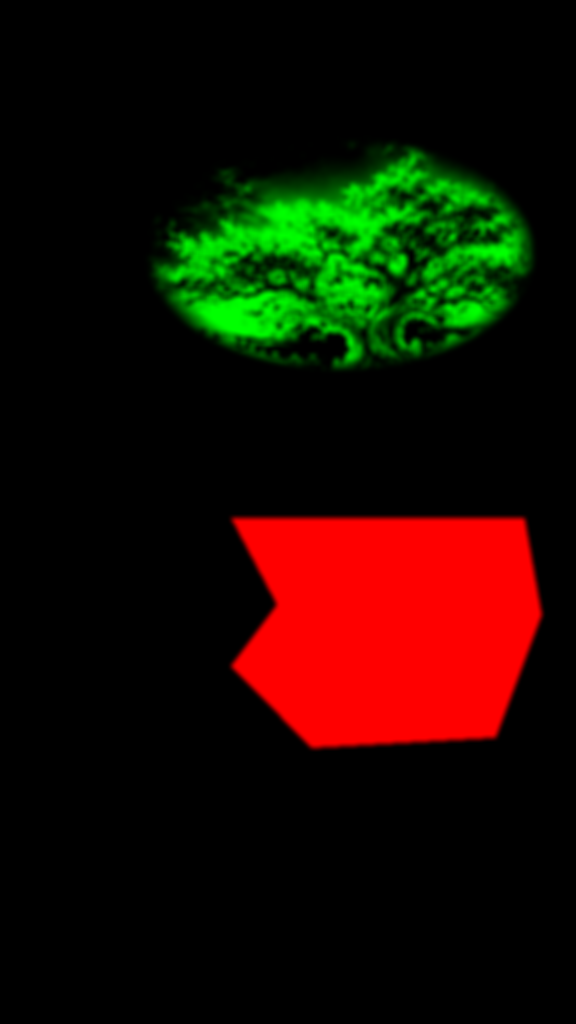
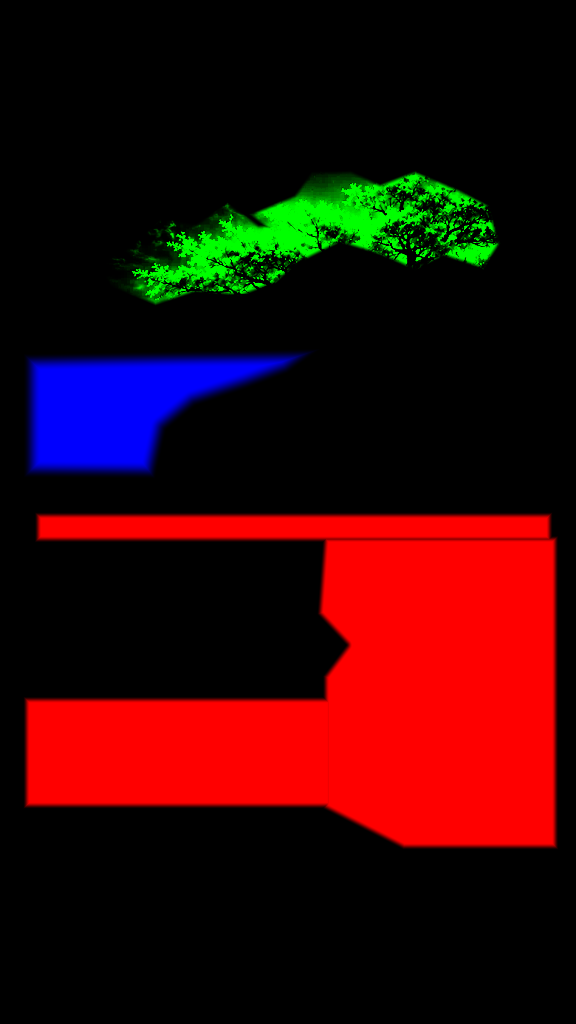
Revise local optical response and capture isolated motion review

Changed region(s): [[0.0312, 0.5, 0.9688, 0.8438], [0.0312, 0.125, 0.9375, 0.4688]]

diff --git a/src/scenes/living-shaders.ts b/src/scenes/living-shaders.ts
@@ -1,50 +1,65 @@
 export const vertex = `attribute vec2 position;varying vec2 uv;void main(){uv=position*.5+.5;gl_Position=vec4(position,0.,1.);}`;
 export const fragment = `precision highp float;
- varying vec2 uv;uniform sampler2D painting;uniform sampler2D regions;uniform sampler2D rayA;uniform sampler2D rayB;
- uniform float time;uniform vec2 size;uniform vec4 bounds;uniform vec3 enabled;uniform vec3 gain;uniform float lightPeriod;uniform float waterPeriod;uniform float textureTopDown;
+ varying vec2 uv;
+ uniform sampler2D painting;uniform sampler2D regions;uniform sampler2D optics;
+ uniform float time;uniform vec2 size;uniform vec2 lightSource;uniform float waterHorizon;
+ uniform vec3 enabled;uniform vec3 gain;uniform float lightPeriod;uniform float waterPeriod;uniform float textureTopDown;
  vec2 sampleCoord(vec2 p){return vec2(p.x,mix(1.-p.y,p.y,textureTopDown));}
- vec4 art(vec2 p){return texture2D(painting,sampleCoord(p));}
+ vec3 art(vec2 p){return texture2D(painting,sampleCoord(p)).rgb;}
+ vec3 field(vec2 p){return texture2D(optics,sampleCoord(fract(p))).rgb;}
+ float transmission(vec2 p,float t){
+   // The same drifting optical-density field shadows foliage and valley air.
+   vec2 q=(p-lightSource)*vec2(size.x/size.y,1.)*3.2;
+   return smoothstep(.18,.78,field(q+vec2(t*.032,-t*.018)).r);
+ }
  void main(){
-  vec2 p=vec2(uv.x,1.-uv.y);vec2 mask=texture2D(regions,sampleCoord(p)).rg;
-  float wind=time*6.283185/lightPeriod;
-  vec2 rayPosition=(p-bounds.xy)/bounds.zw;
-  bool inRay=enabled.x>.5&&rayPosition.x>0.&&rayPosition.x<1.&&rayPosition.y>0.&&rayPosition.y<1.;
-  if(mask.r*enabled.y<.002&&mask.g*enabled.z<.002&&!inRay)discard;
-  vec3 original=art(p).rgb, color=original;float alpha=0.;
-  float water=mask.r*enabled.y;
-  if(water>.002){
-   float phase=time*6.283185/waterPeriod;
-   float depth=smoothstep(.48,.88,p.y);
-   // Two travelling waves have different wavelengths/directions, no moving sheet.
-   vec2 wave=vec2(sin(p.y*245.-phase*2.4+p.x*13.)+.45*sin(p.y*411.+phase*1.3),.30*sin(p.y*191.-phase*1.7+p.x*37.));
-   vec2 offset=wave*gain.y/size*water*(.45+depth);
-   color=art(p+offset).rgb;
-   float glint=sin(p.y*440.-phase*2.1+p.x*16.)*.035*water;
-   color*=1.+glint+.018*sin(wind)*water;alpha=water;
+  vec2 p=vec2(uv.x,1.-uv.y);
+  vec3 mask=texture2D(regions,sampleCoord(p)).rgb*vec3(enabled.y,enabled.z,enabled.x);
+  if(max(max(mask.r,mask.g),mask.b)<.002)discard;
+  vec3 original=art(p),color=original;
+  float alpha=0.,lightTime=time*16./lightPeriod;
+  float sun=transmission(p,lightTime);
+  if(mask.r>.002){
+   float depth=clamp((p.y-waterHorizon)/(1.-waterHorizon),0.,1.);
+   // Project two oblique wave-normal fields onto a horizontal plane. Waves
+   // compress toward the horizon; the lake texture never translates as a sheet.
+   vec2 q=vec2(p.x*3.1,.32/(depth+.12));
+   float t=time*7.3/waterPeriod;
+   vec2 a=field(q+vec2(t*.027,t*.019)).gb*2.-1.;
+   vec2 b=field(q*vec2(1.67,.81)+vec2(-t*.019,t*.031)+.27).gb*2.-1.;
+   vec2 normal=(a+b*.65)*1.5;
+   vec2 offset=vec2(normal.x,normal.y*.62)*gain.y/size*mask.r*mask.r*(.65+depth*1.4);
+   vec3 reflection=art(p+offset);
+   float reflectedSun=smoothstep(.18,.7,dot(reflection,vec3(.2126,.7152,.0722)));
+   float facet=normal.y*.35*reflectedSun+normal.x*.12;
+   color=reflection*(1.+facet*mask.r);alpha=mask.r;
   }
-  float foliage=mask.g*enabled.z;
-  if(foliage>.002){
-   // Moving leaf-scale light windows; the trunk and canopy contour never warp.
-   float window=.5+.5*sin(p.x*39.+p.y*17.-wind);
-   float secondary=.5+.5*sin(p.x*73.-p.y*29.+wind*.73);
-   float illumination=(window*.75+secondary*.25-.35)*gain.z*foliage;
-   color+=original*vec3(1.,.85,.61)*illumination;
-   alpha=max(alpha,foliage);
+  if(mask.g>.002){
+   // Existing leaf texture receives travelling light/shadow. No leaf cutout,
+   // trunk movement, silhouette warp or unrepaired background is introduced.
+   float shade=(sun-.64)*gain.z;
+   color=mix(color,original*(1.+shade*mask.g),mask.g);
+   alpha=max(alpha,mask.g);
   }
-  vec2 q=(p-bounds.xy)/bounds.zw;
-  if(inRay){
-   float drift=.5+.5*sin(wind);
-   vec4 a=texture2D(rayA,sampleCoord(q)), b=texture2D(rayB,sampleCoord(q));
-   vec4 ray=mix(a,b,drift);
-   // Branch-shadow lanes travel within the existing terrain-occluded shaft.
-   float lane=.58+.42*sin(q.x*28.+q.y*8.-wind*1.35);
-   float energy=ray.a*gain.x*(.35+.65*lane);
-   vec3 lit=1.-(1.-original)*(1.-ray.rgb*energy);
-   color+=lit-original;alpha=max(alpha,clamp(energy*2.,0.,1.));
+  if(mask.b>.002){
+   vec2 r=(p-lightSource)*vec2(size.x/size.y,1.);
+   vec2 direction=normalize(vec2(-1.,.20));
+   float along=dot(r,direction),across=dot(r,vec2(-direction.y,direction.x));
+   float spread=.013+max(along,0.)*.055;
+   float a=(across+.013)/spread,b=(across-.063)/(spread*.55);
+   float beam=exp(-a*a*1.6);
+   beam+=.45*exp(-b*b*1.7);
+   // Clouds cross the aperture: fixed sunlight direction, travelling shaft
+   // shadows and changing penetration, instead of two static glow crossfades.
+   float aperture=smoothstep(.26,.72,field(vec2(across/(max(along,.05)+.18)*3.7+lightTime*.026,.21)).r);
+   float reach=smoothstep(.045,.15,along)*(1.-smoothstep(.7,1.2,along));
+   float opticalDepth=beam*reach*mask.b*(.24+.76*aperture)*(.45+.55*sun)*gain.x*.105;
+   float transmittance=exp(-opticalDepth);
+   vec3 scattered=original*transmittance+vec3(1.,.86,.64)*(1.-transmittance);
+   scattered*=1.-.055*(1.-sun)*mask.b;
+   color+=scattered-original;alpha=max(alpha,mask.b);
   }
   if(alpha<.003)discard;
-  // Straight-alpha overlay mathematically reconstructs the relit/refracted
-  // source, rather than crossfading a second shifted landscape on top of it.
   vec3 resolved=clamp(original+(color-original)/max(alpha,.003),0.,1.);
   gl_FragColor=vec4(resolved*alpha,alpha);
  }`;

diff --git a/review/motion-revision.html b/review/motion-revision.html
@@ -1,0 +1,9 @@
+<!doctype html>
+<html lang="zh-CN"><head><meta charset="utf-8"><meta name="viewport" content="width=device-width,initial-scale=1"><title>MILOQEN · 局部动态重新验收</title><style>
+*{box-sizing:border-box}body{margin:0;background:#080d14;color:#e9e2d6;font:15px/1.8 Arial,"Microsoft YaHei",sans-serif}main{max-width:1500px;margin:auto;padding:30px}h1,h2{font-weight:400}a{color:#d9c097}nav{display:flex;flex-wrap:wrap;gap:20px}video{display:block;width:100%;background:#03070d;max-height:88vh}section{margin:55px 0}p{color:#b2beca}.pairs{display:grid;grid-template-columns:3fr 1fr;gap:24px}.pairs div:last-child{max-width:390px}small{color:#aebcca}@media(max-width:700px){main{padding:18px}.pairs{grid-template-columns:1fr}}
+</style></head><body><main><small>MILOQEN · 仅首页动态 · 未发布 · 待重新验收</small><h1>真实运行画面</h1><nav><a href="http://127.0.0.1:4177/" target="_blank">完整桌面网站 ↗</a><a href="./v1.html?device=mobile" target="_blank">手机完整网站 ↗</a><a href="http://127.0.0.1:4176/?motionMode=all" target="_blank">正常动态与四项独立开关 ↗</a><a href="./living.html?device=mobile" target="_blank">手机独立开关 ↗</a></nav>
+<section><h2>正常首页 · 无调试界面 · 正常速度连续 30 秒</h2><p>不操作、不滚动，初始化后的连续片段。当前版本实录，不是上轮 normal-desktop-30s.mp4。<a href="../artifacts/motion-revision-final/desktop-normal.mp4">桌面完整原片</a> · <a href="../artifacts/motion-revision-final/mobile-normal.mp4">手机完整原片</a>另保留加载和整个静置过程。</p><div class="pairs"><div><video controls preload="metadata" src="../artifacts/motion-revision-final/desktop-normal-30s.mp4"></video><small>桌面 1440 × 900</small></div><div><video controls preload="metadata" src="../artifacts/motion-revision-final/mobile-normal-30s.mp4"></video><small>手机 390 × 844 视口模拟，非实体手机</small></div></div></section>
+<section><h2>丁达尔光 · 独立关闭 / 开启 / 关闭</h2><p>山谷空气中的光源方向固定，云影改变光路遮挡与穿透。没有两个静态光姿态交叉淡化。</p><div class="pairs"><video controls preload="metadata" src="../artifacts/motion-revision-final/desktop-rays.mp4"></video><video controls preload="metadata" src="../artifacts/motion-revision-final/mobile-rays.mp4"></video></div></section>
+<section><h2>水面 · 独立关闭 / 开启 / 关闭</h2><p>仅开阔湖面使用波面法线重采样原倒影。最醒目的前景金色反光大部分属于湿石岸，未把岩石扭曲成水波；明显前景水波仍受素材限制。</p><div class="pairs"><video controls preload="metadata" src="../artifacts/motion-revision-final/desktop-water.mp4"></video><video controls preload="metadata" src="../artifacts/motion-revision-final/mobile-water.mp4"></video></div></section>
+<section><h2>世界树 · 独立关闭 / 开启 / 关闭</h2><p>叶簇内部接收移动的局部云影与透射光；轮廓和树干固定。没有独立叶簇摆动。</p><div class="pairs"><video controls preload="metadata" src="../artifacts/motion-revision-final/desktop-tree.mp4"></video><video controls preload="metadata" src="../artifacts/motion-revision-final/mobile-tree.mp4"></video></div></section>
+<p>独立对比按正常速度录制：关闭约 4 秒 → 单项开启约 14 秒 → 关闭约 4 秒；实际包含浏览器截图操作开销，因此会略长。录制使用软件图形路径，不能作为实体手机性能结论。最终自然度由你重新验收。</p></main></body></html>

diff --git a/src/scenes/living-main-fallback.ts b/src/scenes/living-main-fallback.ts
@@ -1,6 +1,5 @@
 import type { createEnvironment } from "./environment";
 import settings from "../data/living-scene.json";
-import placements from "../data/godray-assets.json";
 import { vertex, fragment } from "./living-shaders";
 type Mode = "all" | "off" | "rays" | "water" | "tree" | "clouds";
 const yieldToBrowser = () =>
@@ -96,8 +95,7 @@ export async function initializeLivingScene(
       on = mode !== "off" && !s.reduced && !s.saveData && !s.comparisonStatic;
     canvas.style.visibility = on ? "visible" : "hidden";
     if (!on) return;
-    const profile = media.matches ? settings.mobile : settings.desktop,
-      p = media.matches ? placements.mobile : placements.desktop;
+    const profile = media.matches ? settings.mobile : settings.desktop;
     gl!.useProgram(program);
     gl!.uniform1f(uniform("time"), time);
     gl!.uniform2f(
@@ -105,13 +103,8 @@ export async function initializeLivingScene(
       media.matches ? 780 : 1536,
       media.matches ? 1386 : 864,
     );
-    gl!.uniform4f(
-      uniform("bounds"),
-      p.bounds.x,
-      p.bounds.y,
-      p.bounds.width,
-      p.bounds.height,
-    );
+    gl!.uniform2f(uniform("lightSource"), profile.source[0], profile.source[1]);
+    gl!.uniform1f(uniform("waterHorizon"), profile.waterHorizon);
     gl!.uniform3f(
       uniform("enabled"),
       +(mode === "all" || mode === "rays"),
@@ -180,7 +173,7 @@ export async function initializeLivingScene(
       const paths = [
         `./art/world-tree/world-${device}.webp`,
         `./art/world-tree/living/${device}-regions-lossless.webp`,
-        ...placements[device].poses,
+        settings.opticalField,
       ];
       const images = await Promise.all(
         paths.map(async (src) => {
@@ -221,7 +214,7 @@ export async function initializeLivingScene(
           gl!.UNSIGNED_BYTE,
           image,
         );
-        gl!.uniform1i(uniform(["painting", "regions", "rayA", "rayB"][i]), i);
+        gl!.uniform1i(uniform(["painting", "regions", "optics"][i]), i);
         // Keep uploads as separate browser tasks, without delaying the art or
         // starting animation before all registered textures are ready.
         await yieldToBrowser();

diff --git a/src/scenes/living-renderer.worker.ts b/src/scenes/living-renderer.worker.ts
@@ -1,6 +1,5 @@
 import { vertex, fragment } from "./living-shaders";
 import settings from "../data/living-scene.json";
-import placements from "../data/godray-assets.json";
 type Mode = "all" | "off" | "rays" | "water" | "tree" | "clouds";
 type Device = "desktop" | "mobile";
 const channel = self as unknown as {
@@ -98,7 +97,7 @@ function upload(bitmaps: ImageBitmap[], next: Device, ticket: number) {
     gl.texParameteri(gl.TEXTURE_2D, gl.TEXTURE_WRAP_S, gl.CLAMP_TO_EDGE);
     gl.texParameteri(gl.TEXTURE_2D, gl.TEXTURE_WRAP_T, gl.CLAMP_TO_EDGE);
     gl.texImage2D(gl.TEXTURE_2D, 0, gl.RGBA, gl.RGBA, gl.UNSIGNED_BYTE, image);
-    gl.uniform1i(uniform(["painting", "regions", "rayA", "rayB"][i]), i);
+    gl.uniform1i(uniform(["painting", "regions", "optics"][i]), i);
   }
   const width = settings[device].width;
   canvas.width = width;
@@ -122,8 +121,7 @@ function stop() {
 }
 function draw() {
   if (!ready) return;
-  const p = placements[device].bounds,
-    profile = settings[device];
+  const profile = settings[device];
   gl.useProgram(program);
   gl.uniform1f(uniform("time"), time);
   gl.uniform2f(
@@ -131,7 +129,8 @@ function draw() {
     device === "mobile" ? 780 : 1536,
     device === "mobile" ? 1386 : 864,
   );
-  gl.uniform4f(uniform("bounds"), p.x, p.y, p.width, p.height);
+  gl.uniform2f(uniform("lightSource"), profile.source[0], profile.source[1]);
+  gl.uniform1f(uniform("waterHorizon"), profile.waterHorizon);
   gl.uniform3f(
     uniform("enabled"),
     +(mode === "all" || mode === "rays"),

diff --git a/src/scenes/living-worker-controller.ts b/src/scenes/living-worker-controller.ts
@@ -1,5 +1,5 @@
 import type { createEnvironment } from "./environment";
-import placements from "../data/godray-assets.json";
+import settings from "../data/living-scene.json";
 type Mode = "all" | "off" | "rays" | "water" | "tree" | "clouds";
 type Material = { setMode(value: Mode): void };
 export async function mountWorkerMaterial(
@@ -131,7 +131,7 @@ export async function mountWorkerMaterial(
     const sources = [
       `./art/world-tree/world-${device}.webp`,
       `./art/world-tree/living/${device}-regions-lossless.webp`,
-      ...placements[device].poses,
+      settings.opticalField,
     ];
     worker.postMessage({
       type: "sources",

diff --git a/art-source/world-tree/MATERIAL-RESPONSE.md b/art-source/world-tree/MATERIAL-RESPONSE.md
@@ -1,0 +1,16 @@
+# 局部光学响应素材 · 当前版本
+
+原始 world-desktop / world-mobile 主图与现有云雾未修改。
+
+`npm run assets:living` 运行 `scripts/prepare-material-response.cjs`，从原画与 `src/data/living-regions.json` 重建区域遮罩和 128×128 光学场。详细源文件 SHA256 与职责见 material-response-manifest.json。旧 living-manifest / godray-manifest 记录上一版生成方式，仍保留作历史来源，当前 living 材质不再加载两个静态 godray 姿态。
+
+- 遮罩 R：向内羽化的水面区域，排除石岸；G：有边界的叶簇亮度筛选；B：排除建筑的山谷空气响应区域。
+- optical-field.webp：原创周期连续场。R 为云影透射，GB 为水面双向坡度。它是技术图，不是独立绘制的世界素材。
+- living-shaders.ts：投影波面法线重采样原倒影；云影场同时控制叶簇受光及沿原画光源方向的局部散射。
+- living-scene.json：水位移、地平线、光源、增益、周期和设备帧率上限。
+
+**没有的素材**：独立叶簇、独立水面/倒影、干净背景修复图、深度/法线渲染层、独立瀑布。不能据此实现可信的树冠轮廓摆动、水面几何遮挡变化或瀑布流动。若需要这些效果，应由美术补充：配准的树冠前/后叶簇 RGBA + 去树背景；无石岸的干净水面/倒影层 + 水体深度/法线；瀑布独立 RGBA/流向图 + 背景修复。当前不伪造这些成果。
+
+合成审查：shore 独立前景包含大量湿石反光，覆盖远景水面材质的一部分。最醒目的前景金色反光不能当成开阔湖水做波形扭曲；当前只处理能确认的远景开阔水域。明显前景水波仍受素材限制，需要与石岸正确分离并配准的水体/倒影/遮挡层。不得靠提高 gain 掩盖该限制。
+
+本轮正常画面录制来自生产预览 4177，不含开发调试界面。独立视频来自开发预览，依次关闭 4 秒 / 单项开启 14 秒 / 关闭 4 秒，截图和编码开销会使完整录制时长稍长。均为正常速度，软件图形录制不代表实体手机表现。
